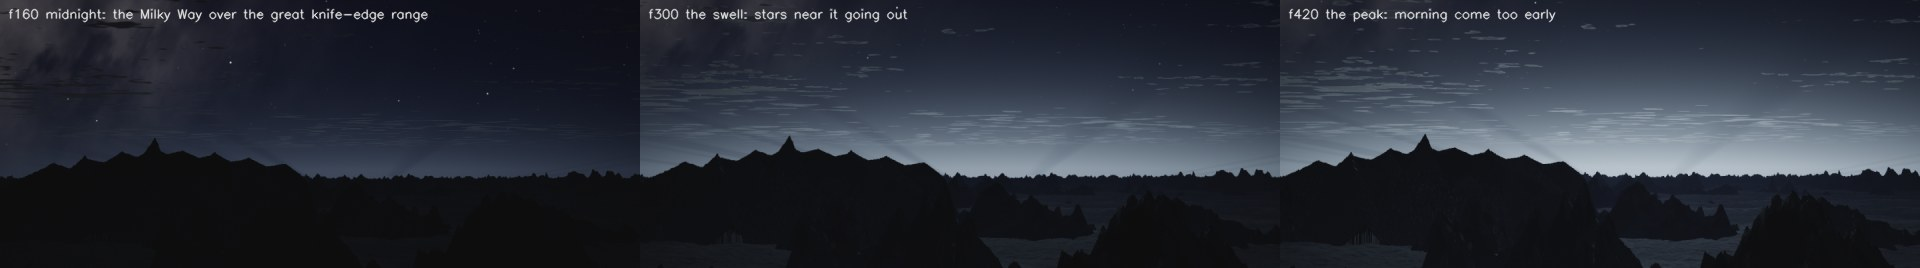
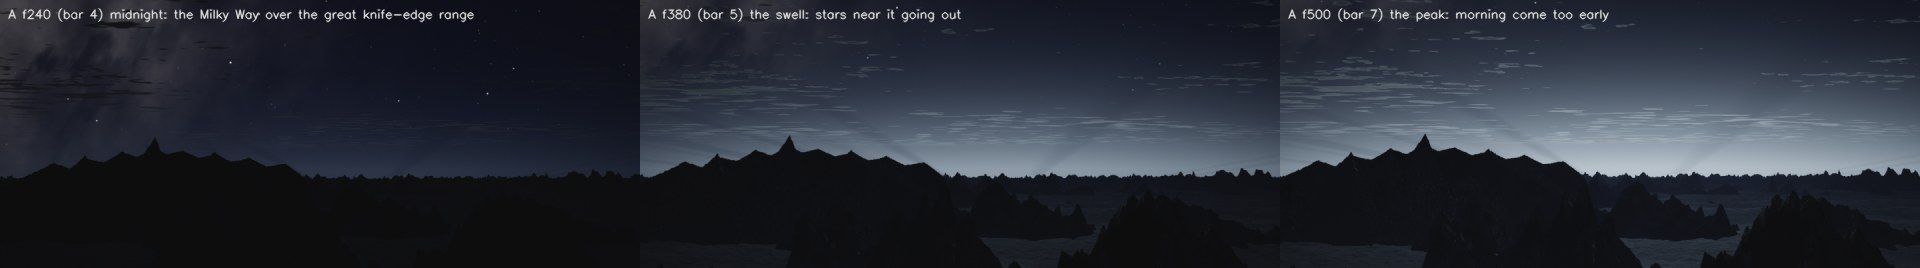
RUN-A: crag cutoff radius fix (walls read as vertical stripes), finals in A cut frames (crossing 4880-5839, false dawn 80-559) incl. job files, false dawn swell locked to A2's bars, review sheets, NOTES report
Claude-Session: https://claude.ai/code/session_01JFQHrAtoWMc2byk3yWo6px

Changed region(s): [[0.0, 0.0299, 0.25, 0.0896], [0.6562, 0.0299, 0.8438, 0.0896], [0.3438, 0.0299, 0.5, 0.0896]]

diff --git a/the-long-dawn/shots/run/falsedawn.py b/the-long-dawn/shots/run/falsedawn.py
@@ -1,4 +1,4 @@
-"""FALSE DAWN (cut A, R1). 480 frames, shot-local numbering 0-479 (renders/falsedawn_A/).
+"""FALSE DAWN (cut A, R1). 480 frames: A cut frames 80-559 (renders/falsedawn_A/, EDIT-v3's convention).
 
 High on a ridge at midnight, moonless: the Milky Way above, the cloud sea below. Beyond the far ranges a cold
 white glow swells under the horizon, at the azimuth where the true morning will come (the world's sunrise
@@ -10,7 +10,8 @@ the terrain lit from below the horizon:
   cone  a tall leaning pyramid of pale light (the zodiacal light, the astronomer's own "false dawn")
   veil  no visible source: only the deck lit from beneath across the sky, and a thin white line on the skyline
 
-  python falsedawn.py --design arc --frames 420 --scale 0.5 --out stills
+  python falsedawn.py --frames 500 --scale 0.5 --out stills          # the peak (cut 500 = shot 420), a test still
+  python falsedawn.py --range 80-559 --procs 4 --skip                # finals, A cut frames -> renders/falsedawn_A/
 """
 import argparse
 import math
@@ -85,6 +86,10 @@ def build_range():
                                 ang=ya + math.pi / 2 + rng.uniform(-0.6, 0.6), seed=140 + k, k=(30.0 if big else 14.0),
                                 detail=0.36, shelf=0.0, nf=(4 if big else 3)))
         rows[-1][14] = 0.95                # a safe early-out bound for big detailed crags (world.crag, v3 flag)
+        # crag_row's cutoff radius assumes an isotropic falloff: along an elongated crag's long axis the flank is
+        # still ~200 m above the cloud where it is cut, which stands as a wall (drawn as vertical stripes). A
+        # 2.5x radius lets every flank reach the cloud first.
+        rows[-1][13] *= 2.5
     return np.array(rows), np.array(pts)
 
 
@@ -111,8 +116,10 @@ def camera(frame, W=1920, H=804):
 
 def swell(frame):
     """The glow's growth: nothing, then a slow swell, breathing once a bar (80 frames), too evenly."""
-    u = min(max((frame - 30.0) / 400.0, 0.0), 1.0)
-    return (u * u * (3 - 2 * u)) ** 1.3 * (1.0 + 0.07 * math.sin(2 * math.pi * frame / 80.0))
+    # locked to A2 (cut 80-560): the glow shows on bar 3 b1 (shot 80), is bright enough to put out the nearest
+    # stars by bar 5 b1 (shot 240), and peaks for the push into the white at bar 8 b1 (A3); a breath once a bar
+    u = min(max((frame - 80.0) / 360.0, 0.0), 1.0)
+    return (u * u * (3 - 2 * u)) ** 1.1 * (1.0 + 0.07 * math.sin(2 * math.pi * frame / 80.0))
 
 
 # ------------------------------------------------------------------ skyline (for the shadow rays) ---
@@ -435,9 +442,12 @@ def render(frame, design='arc', scale=1.0, ss=1.5):
 FINISH = dict(exposure=1.05, bloom_strength=0.06, bloom_threshold=0.6, streak_strength=0.0, vignette_amount=0.25)
 
 
+CUT0 = 80                                        # A2 starts on A's cut frame 80 (bar 2): files use cut frames
+
+
 def main():
     ap = argparse.ArgumentParser()
-    ap.add_argument('--frames', default='420')
+    ap.add_argument('--frames', default=None)
     ap.add_argument('--range', default=None)
     ap.add_argument('--design', default='arc')          # the H5 call: ARC only (cone, veil kept for the record)
     ap.add_argument('--scale', type=float, default=1.0)
@@ -446,14 +456,21 @@ def main():
     ap.add_argument('--threads', type=int, default=4)
     ap.add_argument('--procs', type=int, default=1)
     ap.add_argument('--skip', action='store_true')
+    ap.add_argument('--numbering', choices=('cut', 'shot'), default='cut',
+                    help="cut (default, EDIT-v3's delivery convention): frames are A's cut frames 80-559; "
+                         "shot: 0-479 (tests)")
     a = ap.parse_args()
+    off = CUT0 if a.numbering == 'cut' else 0
     base = os.path.join(PI.CM.ROOT, 'renders', 'falsedawn_A')
     out = base if a.out is None else os.path.join(base, a.out)
     if a.range:
         s, e = a.range.split('-')
         frames = list(range(int(s), int(e) + 1))
     else:
-        frames = [int(x) for x in a.frames.split(',')]
+        frames = [int(x) for x in (a.frames or str(off + 420)).split(',')]
+    bad = [f for f in frames if not off <= f < off + NFR]
+    if bad:
+        raise SystemExit(f'frames outside the shot ({off}-{off + NFR - 1} in {a.numbering} numbering): {bad[:5]}')
     designs = DESIGNS if a.design == 'all' else (a.design,)
     look = PI.look
     for d in designs:
@@ -461,23 +478,23 @@ def main():
         os.makedirs(od, exist_ok=True)
         todo = [f for f in frames if not (a.skip and os.path.exists(look.frame_path(od, f)))]
         if a.procs <= 1:
-            _work((todo, d, a.scale, a.ss, od, a.threads))
+            _work((todo, d, a.scale, a.ss, od, a.threads, off))
         else:
             import multiprocessing as mp
             chunks = [todo[i::a.procs] for i in range(a.procs)]
             with mp.get_context('spawn').Pool(a.procs) as pool:
-                pool.map(_work, [(c, d, a.scale, a.ss, od, 1) for c in chunks])
+                pool.map(_work, [(c, d, a.scale, a.ss, od, 1, off) for c in chunks])
 
 
 def _work(args):
-    frames, d, scale, ss, od, threads = args
+    frames, d, scale, ss, od, threads, off = args
     os.environ['NUMBA_NUM_THREADS'] = str(threads)
     import numba
     numba.set_num_threads(threads)
     look = PI.look
     for f in frames:
         t0 = time.time()
-        img = look.finish(render(f, d, scale, ss), **FINISH)
+        img = look.finish(render(f - off, d, scale, ss), **FINISH)
         look.save_png(look.frame_path(od, f), img)
         print(f'{d} frame {f} {time.time() - t0:.1f}s', flush=True)
 

diff --git a/the-long-dawn/shots/run/crossing.py b/the-long-dawn/shots/run/crossing.py
@@ -1,4 +1,4 @@
-"""THE CROSSING (cut A, R6; A's showpiece #2). 960 frames, shot-local numbering 0-959 (renders/crossing_A/).
+"""THE CROSSING (cut A, R6; A's showpiece #2). 960 frames: A cut frames 4880-5839 (renders/crossing_A/, EDIT-v3).
 
 Match cut on the heart of light: the same light, now inside a great lantern of iron and glass hung between two
 poles on the shoulders of two hooded bearers. The camera draws back and out over the void, never getting ahead
@@ -12,8 +12,8 @@ burn low and are fed, the red under the cloud goes out patch by patch, the lante
 toward gold, and the path behind the line keeps a faint trail of light. By the end it is the dark hour before
 the blue hour.
 
-  python crossing.py --frames 0,240,480,720,959 --scale 0.5 --out t1       # stills -> renders/crossing_A/t1/
-  python crossing.py --range 0-959 --procs 4 --skip                         # full  -> renders/crossing_A/
+  python crossing.py --frames 0,240,480 --numbering shot --scale 0.5 --out t1   # test stills -> renders/crossing_A/t1/
+  python crossing.py --range 4880-5839 --procs 4 --skip                          # finals, A cut frames -> crossing_A/
   --variant few   the fallback test: 12 walkers, larger (camera closer)
 """
 import argparse
@@ -98,6 +98,7 @@ def _knot_y(u):
 
 CR0 = build_arete()
 CR0[:, 14] = 0.95                                # crags and ridges: the safe early-out bound (world, v3 flag)
+CR0[CR0[:, 12] >= 0.0, 13] *= 2.5                # crags: a cutoff radius beyond which every flank is under the cloud
 CR = CR0                                         # replaced by CR0 + the watch-fire sites below (_fire_sites)
 
 
@@ -434,6 +435,7 @@ def _finish_set():
     global CR, _WF
     sites, rows = _fire_sites()
     rows[:, 14] = 0.95
+    rows[:, 13] *= 2.5
     CR = np.vstack([CR0, rows])
     # each fire stands on the highest point of its rock's summit shelf
     out = []
@@ -1002,8 +1004,11 @@ def render(frame, scale=1.0, ss=1.5, variant='main', trail=True):
     return img
 
 
+CUT0 = 4880                                      # A18 starts on A's cut frame 4880 (bar 62): files use cut frames
+
+
 def work(args):
-    frames, scale, out, threads, ss, variant = args
+    frames, scale, out, threads, ss, variant, off = args
     os.environ['NUMBA_NUM_THREADS'] = str(threads)
     import numba
     numba.set_num_threads(threads)
@@ -1012,7 +1017,7 @@ def work(args):
     look = PI.look
     for f in frames:
         t0 = time.time()
-        img = look.finish(render(f, scale=scale, ss=ss, variant=variant), **FINISH)
+        img = look.finish(render(f - off, scale=scale, ss=ss, variant=variant), **FINISH)
         look.save_png(look.frame_path(out, f), img)
         print(f'frame {f} {time.time() - t0:.1f}s', flush=True)
 
@@ -1029,26 +1034,33 @@ def main():
     ap.add_argument('--threads', type=int, default=1)
     ap.add_argument('--variant', default='main')
     ap.add_argument('--skip', action='store_true')
+    ap.add_argument('--numbering', choices=('cut', 'shot'), default='cut',
+                    help="cut (default, EDIT-v3's delivery convention): frames are A's cut frames 4880-5839; "
+                         "shot: 0-959 (tests)")
     a = ap.parse_args()
+    off = CUT0 if a.numbering == 'cut' else 0
     base = os.path.join(PI.CM.ROOT, 'renders', 'crossing_A')
     out = base if a.out is None else os.path.join(base, a.out)
     os.makedirs(out, exist_ok=True)
     if a.frames:
         frames = [int(x) for x in a.frames.split(',')]
     else:
-        s, e = (a.range or f'0-{NFR - 1}').split('-')
+        s, e = (a.range or f'{off}-{off + NFR - 1}').split('-')
         frames = list(range(int(s), int(e) + 1, a.step))
+    bad = [f for f in frames if not off <= f < off + NFR]
+    if bad:
+        raise SystemExit(f'frames outside the shot ({off}-{off + NFR - 1} in {a.numbering} numbering): {bad[:5]}')
     if a.skip:
         frames = [f for f in frames if not os.path.exists(PI.look.frame_path(out, f))]
     far_fires()              # build the island fire table once (cached to crossing_fires.npy) before forking
     path()
     if a.procs <= 1:
-        work((frames, a.scale, out, a.threads, a.ss, a.variant))
+        work((frames, a.scale, out, a.threads, a.ss, a.variant, off))
     else:
         import multiprocessing as mp
         chunks = [frames[i::a.procs] for i in range(a.procs)]
         with mp.get_context('spawn').Pool(a.procs) as pool:
-            pool.map(work, [(c, a.scale, out, 1, a.ss, a.variant) for c in chunks])
+            pool.map(work, [(c, a.scale, out, 1, a.ss, a.variant, off) for c in chunks])
 
 
 if __name__ == '__main__':

diff --git a/the-long-dawn/shots/run/NOTES.md b/the-long-dawn/shots/run/NOTES.md
@@ -1,128 +1,48 @@
-# RUN-A · PAUSED 27 Sep ~10:42Z (director's usage pacing) · EXACT STATE AND NEXT STEPS
-* **Done this session (H5):** items 1-4 and 7 for THE CROSSING (cloaked bearers with planted feet, both hands on the
-  poles, side-on opening from below the crest; walkers in hooded coats; star trails open only once the wide settles;
-  the bar map incl. four watch-fire passes on bars 64/67/70/73). Quarter-scale motion of the revised take:
-  `review/v3/runA_crossing_greybox_q_12fps.mp4` + `runA_crossing_greybox_q_contact.jpg` (frames in
-  `renders/crossing_A/grey_q4`). FALSE DAWN: arc only, the great knife-edge sierra, a structured mackerel deck,
-  lenticulars tried and CUT (saucer read): `runA_falsedawn_arc_swell.jpg`, `runA_falsedawn_arc_full_f420.jpg`.
-* **OPEN 1 (terrain tell, FALSE DAWN):** a small triangle of vertical stripes where the sierra's lower-left flank
-  meets the cloud sea (full res around x 200-280, y 950-1000; crop via `renders/falsedawn_A/h5_full/f_00420.png`).
-  NOT the crag/ridge early-out bounds: those are now widened additively (world.py col-14 flag, 0 = v2 bound; set on
-  this lane's rows) and the stripes are unchanged. Next: suspect the column marcher's monotonic-depth assumption
-  where a nearer island's sliver overlaps the sierra's foot, or the cloud's close-range billows; quickest fix is to
-  move/shorten the sierra's west end (RANGE_KNOTS[0:3]) so its foot meets the cloud outside the frame, then re-render
-  the swell (160, 300, 420 at 0.5) and f420 at 1.0.
-* **OPEN 2 (delivery convention, EDIT-v3):** finals go to `renders/falsedawn_A` and `renders/crossing_A` in A's CUT
-  frame numbering: crossing = cut f4880-5839 (shot-local 0-959 + 4880), false dawn = cut f80-559 (shot-local + 80).
-  Next: add the offset in both drivers (file names = cut frames; shot time = cut - offset), then update
-  `cloud/jobs/crossing_a_*.json` and `falsedawn_a_*.json` ranges/frames. Until then the job files are NOT launchable.
-* **Next after that:** a half-scale check of the crossing's opening (0-240) and wide (800) with the final code, the
-  review sheets refreshed, commit + push, then (if the brief allows) THE BLUE HOUR design still (item 8).
+# >>> RUN-A (A . FALSE DAWN R1, THE CROSSING R6; next THE BLUE HOUR R7, THE WATCHERS R16) - report 27 Sep ~15:30Z <<<
+**THE CROSSING** (`shots/run/crossing.py`, figures `sdfppl.py`) and **FALSE DAWN** (`falsedawn.py`) carry every H5 call
+in RUN-A's area (checklist below) and are ready to render on the cloud: finals numbered in A's cut frames, per EDIT-v3.
 
-# RUN-A · H5 CALLS CHECKLIST (director's H5 block, 27 Sep ~07:10Z; overrides REVISION 1). Updated 27 Sep ~10:35Z.
-| # | item (RUN-A's area) | status |
+## H5 checklist (director's H5 calls, 07:10Z)
+| # | item | status |
 |---|---|---|
-| 1 | CROSSING: the uphill bearer's feet planted in frame; no dangling legs; nothing reads as a body hanging from the pole | **DONE.** Feet are planted by a foot-cycle on the real terrain (a planted foot never moves; two-bone IK legs; the pelvis drops where a leg could not reach). The opening is re-staged side-on from just below the crest: both bearers stand in profile on the crest's skyline, boots on the snow. Both hands steady the poles (a two-pole litter), so no free arm hangs below a cloak. |
-| 2 | CROSSING: bearers as cloaked silhouettes with cloth and weight; no capsules in finals | **DONE.** New `sdfppl.traveller`: a hooded wool cloak (a new "bell" primitive: folds deepening to the hem and swinging with the gait, a wavy hem), sloping cape, loose sleeves, gloved hands, boots; bearers lean into the load on bent knees. Walkers: knee-length hooded coats (one in five a long cloak), packs under the cloth, staffs. Cloth shading keeps little wrap, so lights behind a figure rim it. |
-| 3 | CROSSING: star trails concentric from their first frame, or held back until the wide | **DONE.** The sky still turns from bar 66 b1, but the exposure (the trails) opens only on bar 69 b1, when the camera has settled with the pole in frame: every trail is a concentric arc from its first frame. Arcs capped at 6 deg. |
-| 4 | CROSSING: the locked bar map (A18, bars 62-73) | **DONE.** Draw-back from bar 63 b1 (f80), settled on bar 69 b1 (f560); sky from bar 66 b1 (f320, T13 lands with it); red under-glow steady until bar 70 b1 (f640), then out patch by patch; four watch-fires passed on bars 64, 67, 70, 73 (f160, 400, 640, 880): the first on a shoulder just beyond the crest (the bearers pass in front of it as backlit silhouettes while its keeper kneels to feed it), the other three on pinnacles beyond the arete placed exactly on the camera's line of sight through the lantern at their bar, so the lantern passes in front of each. No cold glow. |
-| 5 | FALSE DAWN = ARC only; clouds with structure; one or two big landforms | **DONE.** Arc only. One great knife-edge sierra (A's landform) 9.5 km out, left of the glow, a sawtooth of faceted spires; the glow rises behind its right shoulder and its notches cast the rays. The deck is a crisp mackerel sky in banks with clear gaps, each cloudlet silver-rimmed near the glow (no smudges). A stack of lenticulars was tried and CUT: lit from beneath at night they read as a fleet of saucers. |
-| 6 | Terrain tells out: vertical texture streaks, smudge clouds, hard shadow seams | **DONE** for this lane's shots: the arete's gully detail halved (0.24 -> 0.14) and snow held on steeper ground (the flanks read as fluted snow, not black-and-white combed stripes); an ADDITIVE `world.shade` flag `Q[18]` samples the fine snow noise in a height-skewed domain (no fall-line stretching; existing callers unchanged); the false dawn deck is crisp (see 5). No sun, so no Earth-shadow seam. |
-| 7 | Humans: silhouette or gloved hands only, never a lit face; hoods or wool cowls; >= 40 px if read | **DONE.** Every figure is hooded (the head is a closed cowl, there is no face); keepers kneel or stand beside or on the camera side of their fires, never front-lit; walkers ~57 px in the wide at full res. |
-| 8 | THE BLUE HOUR (R7): T14 over people together; seated, unroped bearers and the set-down lantern in the foreground as the camera drifts to the hearth smoke; sun -6 to -2 deg, no disc | constraint logged; R7 is not built yet (not in this brief). The crossing's set, people and lantern are built to be reused for it. |
-| 9 | R16 THE WATCHERS: backlit silhouettes only | constraint logged; not built yet (not in this brief). `sdfppl.traveller` + the crossing's keeper staging (camera side of the fire) are the kit. |
-
-# RUN-A (lane runA) REPORT: THE CROSSING greybox (risk test #3) + FALSE DAWN stills
-*27 Sep, 05:30Z (resumed after the block). Revision 1 absorbed (A 4:30; R4 cut; A ends in the blue hour, no sun disc;
-FALSE DAWN and the red under-glow are must-haves).*
-
-**Verdict.** THE CROSSING greybox PASSES against its fallback with one change of framing: keep all 40 walkers but end
-the draw-back at 64 m (figures ~54 px at full res), so the line reads as people carrying lights, not LED dots, and
-runs on out of frame. The fewer-larger fallback (`--variant few`) reads as people even more plainly and shows the
-pole-bearers as an iconic silhouette, but it plays as a small party, not "about forty". FALSE DAWN: the **arc** wins.
-
-**Lesson for every lane:** background renders on the session's own box do NOT run through a usage block. The box is
-frozen while the session is idle and rebooted at resume (here the chain stopped at 01:13Z at frame 140/960). Anything
-that must render while we wait goes to cloud jobs.
+| 1 | CROSSING: the uphill bearer's feet planted in frame; nothing hangs from the pole | **DONE.** Feet planted by a foot cycle on the real terrain (a planted foot never moves; two-bone IK legs; the pelvis drops where a leg could not reach). Opening re-staged side-on from just below the crest: both bearers in profile on the crest's skyline, boots on the snow; both hands steady the poles (a two-pole litter), so no arm hangs free below a cloak. |
+| 2 | CROSSING: bearers as cloaked silhouettes with cloth and weight; no capsules in finals | **DONE.** `sdfppl.traveller`: hooded wool cloak (a "bell" primitive: folds deepening to the hem and swinging with the gait, wavy hem), sloping cape, loose sleeves, gloved hands, boots; bearers lean into the load on bent knees. Walkers in knee-length hooded coats (one in five a long cloak), packs under the cloth, staffs. Cloth keeps little light-wrap, so lights behind a figure rim it. |
+| 3 | CROSSING: star trails concentric from their first frame, or held back until the wide | **DONE.** The sky turns from bar 66 b1; the trails open only on bar 69 b1, once the camera has settled with the pole in frame; arcs capped at 6 deg. |
+| 4 | CROSSING: the locked bar map (A18, cut 4880-5840) | **DONE.** Draw-back from bar 63 b1, settled on bar 69 b1; sky from bar 66 b1 (T13); red steady until bar 70 b1, then out patch by patch; four watch-fires passed on bars 64, 67, 70, 73: the first on a shoulder just beyond the crest (the bearers pass in front of it as backlit silhouettes while its keeper kneels to feed it), the other three on pinnacles beyond the arete placed on the camera's line of sight through the lantern at their bar, so the lantern passes in front of each. No cold glow. |
+| 5 | FALSE DAWN = ARC only; clouds with structure; one or two big landforms | **DONE.** Arc only, locked to A2 (the glow shows on bar 3 b1, the nearest stars go out from bar 5 b1). One great knife-edge sierra 9.5 km out (A's landform), left of the glow: an irregular crest, one dominant asymmetric horn, and the glow rises behind its right shoulder so its notches cast the rays. The deck is a structured mackerel sky in banks with clear gaps, lit softly through each cloudlet with brighter edges. Lenticulars were tried and CUT (at night, lit from beneath, a stack reads as a fleet of saucers). |
+| 6 | Terrain tells out | **DONE** in this lane's shots. The vertical-stripe tell had two sources: (a) combed snow on steep flanks: gully detail halved, snow held on steeper ground, and an ADDITIVE `world.shade` flag `Q[18]` samples the fine snow noise in a height-skewed domain; (b) walls: `crag_row`'s cutoff radius is too short for elongated crags (the flank along the long axis is still ~200 m above the cloud where it is cut; the column marcher draws that wall as stripes). Fixed in this lane's rows (radius x2.5); worth checking in any other lane that uses `crag_row` with aniso > 1. Also additive: a safe early-out bound for crag/ridge rows (`CR[k,14] > 0`; 0 = v2). |
+| 7 | Humans: silhouettes or gloved hands; never a lit face; hoods/cowls; >= 40 px | **DONE.** Every head is a closed cowl (no face exists); keepers kneel or stand in profile or on the camera side of their fires; walkers ~57 px in the wide at full res. |
+| 8 | THE BLUE HOUR (R7): T14 over people together; the seated, unroped bearers and the set-down lantern in the foreground as the camera drifts to the hearth smoke; sun -6 to -2 deg, no disc | logged, not yet built (next in this lane). The crossing's set, figures and lantern are the kit. |
+| 9 | R16 THE WATCHERS: backlit silhouettes only | logged, not yet built. The kit: `sdfppl.traveller` + the crossing's keeper staging. |
 
 ## Review files (`review/v3/`)
-* `runA_crossing_greybox_q_12fps.mp4`: the whole take at 0.25 scale, 12 fps (the greybox).
-* `runA_crossing_wide_h_5s.mp4` (chosen, 24 fps) and `runA_crossing_wide_h_5s_fallback_few.mp4` (12 fps): the settled
-  wide at 0.5 scale, 32.5-37.5 s; `runA_crossing_wide_main_vs_fallback_h.jpg`: the same moment side by side.
-* `runA_crossing_greybox_q_contact.jpg`: one frame every 4 s; `runA_crossing_greybox_q_stills.jpg`: the first pass.
-* `runA_crossing_h_f400.jpg`: 16.7 s at 0.5 scale with the final orange-red smoulder (the mp4s above carry the
-  earlier, pinker red: crimson added over blue moonlit cloud reads magenta, as fire2's notes warn).
-* `runA_underglow_run_demo.jpg`: the red under-glow in the Beacon Run's own world (its last wide, 1679), off and on,
-  pulsing on the race's beat: `world.cloud_glow` is ready for R3/R2 as is (patch table: see `crossing.underglow`).
-* `runA_falsedawn_three_designs.jpg`, `runA_falsedawn_arc_swell.jpg`, `runA_falsedawn_arc_full_f420.jpg`.
+* `runA_crossing_h_keyframes.jpg`: six cut frames at half scale with the final code (bars 62, 64, 67, 70, 72, 73).
+* `runA_crossing_greybox_q_12fps.mp4` + `runA_crossing_greybox_q_contact.jpg`: the whole take at quarter scale,
+  12 fps (rendered 10:30Z, before the crag-radius fix: identical to the eye, no walls in frame).
+* `runA_falsedawn_arc_swell.jpg` (cut 240, 380, 500 at half scale) and `runA_falsedawn_arc_full_f500.jpg` (the peak,
+  full res). `runA_falsedawn_three_designs.jpg` is the original three-way comparison (pre-H5).
+* Earlier: `runA_crossing_wide_*` (main vs the fewer-larger fallback), `runA_underglow_run_demo.jpg` (the red
+  under-glow in the Run's own world, for R3).
 
-## THE CROSSING (R6): what is built (`shots/run/crossing.py`, `shots/run/sdfppl.py`, additive `world.py`)
-* **Set.** A knife-edge arete (8 `ridge_row` segments, a wandering crest, flanks falling ~60 deg to the cloud sea
-  800 m below) in a clear basin of the cloud sea at world (-5200, 14400), between two faceted summits (`crag_row`);
-  two small rock shoulders beside the crest carry the watch-fires of this stretch. The line walks EAST (yaw -30 deg,
-  the world's sunrise azimuth); the camera stays on the south side and never gets ahead of the lantern.
-* **People.** 2 hooded bearers carry the great lantern (hexagonal, iron and glass, pierced roof, finial ring) hung
-  from a crossbar between two poles on their shoulders; 40 roped walkers (packs, a third with staffs, varied heights
-  and gait), each with a small orange hand-lantern swinging with the step, about half of them on the far side so
-  the body silhouettes against its own light. Walk cycles follow the distance actually walked (no foot sliding); the
-  spacing breathes like an accordion. All 3-D SDF (`sdfppl.py`), depth-tested into the terrain, lit by every lantern
-  (inverse square) plus the moon, cloth with hanging folds and mottle; no faces anywhere (hoods, seen from behind or
-  side-on).
-* **Pace.** 0.45 m/s: one 0.375 m step per beat at 72 BPM. The great lantern is a 2.6-unit point light whose pool on
-  the snow is a few paces across. The camera draws back 5.5 m -> 64 m (exponential in distance, a cubic ease from
-  1 s to 26 s: under way by 3 s, 15 m at 12 s), swings from behind the rear bearer to side-on and settles at crest
-  level for the last 14 s (the walking wide: fires fed, red going out, moon setting).
-* **Two clocks.** The people keep real time. The sky keeps a faster clock that eases in once the draw-back is under
-  way (46 deg of sky, about three hours): stars become short arcs about a low pole (latitude 8 deg, pole in frame;
-  arcs capped at 6 deg so it reads as the sky turning, not a star-trail photograph); the moon sets behind the arete
-  (backlight first, darkness by the end: the dark hour before the blue hour); the watch-fires burn low and are fed;
-  34 island watch-fires do the same; the red under the cloud goes out patch by patch; the lantern's fire warms from
-  ice-white toward gold.
-* **The red under-glow (must-have)** is a reusable ADDITIVE post-pass, `world.cloud_glow(C, D, P, CR, UG, fogp, out)`:
-  emission on cloud-sea pixels from a patch table (x, z, radius, rgb, noise scale, trough bias), brightest in the
-  troughs, lighting the cloud-top mist in front of it. Existing callers are untouched (also added: `world.heights`).
-  From the arete only the band under the horizon beyond ~15 km is visible, so the patches sit 14-48 km out and read
-  as a dull red smoulder along the horizon between the islands, going out one by one. R3/R2 can call it as is.
-
-## Risk test, item by item (0.25 scale motion at 12 fps; 0.5 scale 5-s wide at 24 fps; review/v3/runA_crossing_*)
-* **Composition: PASS.** Match cut on the heart from behind the rear bearer; the draw-back; the side-on wide at crest
-  level with the line against the islands, the cloud band and the sky.
-* **The line: PASS at 64 m** (0.5 scale). From above (first try) it read as LED dots; at 85 m it leaned "string of
-  lights"; at 64 m every light has a hooded figure with a pack over it and a pool on the snow, and the rope sags
-  between them. Fallback kept: `--variant few` (12 walkers, camera at 52 m).
-* **Lantern's pool: PASS.** **Rope: PASS, subtle** (a thin sagging line; brighter it strings the lights like a festoon).
-* **Wheeling sky: PASS** after two fixes (warp-speed streaks -> low pole in frame; full star-trail circles read as a
-  wallpaper -> 6 deg arcs, fainter).
-* **Trails: DROPPED in this framing.** Between walkers a lit line reads as a wire; behind the tail (on the trodden
-  snow, code kept) it is off-frame at 64 m. Recommend the trail be seen, if anywhere, in the blue-hour shot.
-* **Remaining weaknesses:** the close-up bearers are still smooth-limbed (hands are capsules; OK at 5.5 m in a
-  backlit frame, not closer); the arete's lower flank is a large dark area in the wide; the far islands read a
-  little flat; the red smoulder can read as a last band of sunset if graded warmer (keep it deep red, patchy).
-
-## FALSE DAWN (R1): three still designs (`shots/run/falsedawn.py --design {arc,cone,veil}`)
-Moonless midnight from the Dawn-C vantage over the foothills, looking at the world's sunrise azimuth; the Milky Way
-rising from the left horizon; a high altocumulus deck; stars and the Milky Way attenuated by the glow's local
-brightness (they go out near it); terrain lit from just over the horizon so the far peaks rim.
-* **arc (WINNER)**: a wide low arch, ice-white with a breath of cyan, soft shadow rays fanning up from the far peaks
-  near the source, the undersides of a banded altocumulus deck silvered. It is the only design that reads as morning
-  come too early: rays from a point below the horizon, which no city makes, and too broad for a moonrise.
-  `review/v3/runA_falsedawn_arc_swell.jpg` (f160 starry midnight, f300 swell, f420 peak) and
-  `runA_falsedawn_arc_full_f420.jpg` (full res).
-* **cone**: a leaning pyramid of pale light (the zodiacal light). Reads as a searchlight or sci-fi beacon.
-* **veil**: only the deck lit from beneath. Reads as cloud lit by a city (light pollution).
-* `review/v3/runA_falsedawn_three_designs.jpg` compares them (first pass, before the arc's refinements: banded deck,
-  darker zenith, rays limited to the source).
-
-## RENDER_SPEC (director launches; greybox look approved by this lane, not yet by the producers)
+## RENDER_SPEC (director launches; finals in A's cut frames, EDIT-v3 picks them up)
 * THE CROSSING: `cloud/jobs/crossing_a_{1..8}.json`, 120 frames each, `python3 shots/run/crossing.py --range A-B
-  --procs 4 --skip` -> `renders/crossing_A/f_%05d` (shot-local 0-959; 1920x804, ss 1.5; ship jpg). One machine type.
-  Measured: 0.25 scale ss 1.0 ~20 s/frame (close-ups) and 0.5 scale ss 1.0 ~15 s/frame (wides), single-thread; so full
-  res ss 1.5 ~12 min (close-ups) to ~2.5 min (wides) single-thread, ~80 worker-hours: about 2.5 h wall on 8 four-core
-  boxes. Fallback: add `--variant few`.
-* FALSE DAWN: `cloud/jobs/falsedawn_a_{1..4}.json`, `python3 shots/run/falsedawn.py --design arc --range A-B --procs 4
-  --skip` -> `renders/falsedawn_A/f_%05d` (shot-local 0-479). Measured ~1 min/frame single-thread at full res.
-* Data that must be committed: `shots/run/crossing_fires.npy` (the island fires), plus the Run's summits/beacons.
-* Frame numbering is shot-local because the bar map was not locked; the edit maps 0-959 and 0-479 onto A's timeline.
+  --procs 4 --skip` -> `renders/crossing_A/f_04880`..`f_05839` (1920x804, ss 1.5, ship jpg), one machine type.
+  Measured at half scale (4 threads): close-ups ~11 s, wides ~5 s, so full res ~6 min (close-ups) to ~3 min (wides)
+  single-thread: ~64 worker-hours, about 2 h on 8 four-core boxes. Fallback: `--variant few` (12 larger walkers).
+* FALSE DAWN: `cloud/jobs/falsedawn_a_{1..4}.json`, 120 frames each, `python3 shots/run/falsedawn.py --design arc
+  --range A-B --procs 4 --skip` -> `renders/falsedawn_A/f_00080`..`f_00559`; ~1.5 min/frame single-thread at full res.
+* Tests use `--numbering shot` (0-959 / 0-479) and an `--out` subfolder; the EDL reads only the folder's own files.
+* Data that must be committed: `shots/run/crossing_fires.npy` (the island fires), the Run's `summits.npy`/`beacons.npy`.
+
+## How the pieces work (for whoever picks this up)
+* Set: a knife-edge arete (8 `ridge_row`s) in a clear basin at world (-5200, 14400) between two faceted summits; the
+  line walks east (yaw -30 = the world's sunrise azimuth); the camera stays on the south side, never ahead of the
+  lantern. 40 roped walkers + 2 bearers; 0.45 m/s (a step per beat at 72 BPM). Two clocks: people in real time, the
+  sky on a faster clock (46 deg, ~3 h): stars, the moon setting behind the arete, the watch-fires fed, 34 island
+  fires, the red under-glow going out (`world.cloud_glow`, additive, orange-red: crimson over blue reads magenta),
+  the lantern warming from ice-white toward gold.
+* Lessons: background renders on the session box do not survive a usage pause (the box is frozen, then rebooted);
+  use cloud jobs. In rebases, this shared NOTES file conflicts: keep each lane's block intact.
 
 # >>> RUN-C (C . THE LIVING INK: C16 REVEAL, C17 INK RUN, C24 ILLUMINATION) - report 27 Sep <<<
 ## PAUSED 27 Sep ~10:40Z (director's usage pacing). Nothing is rendering. RESUME HERE
